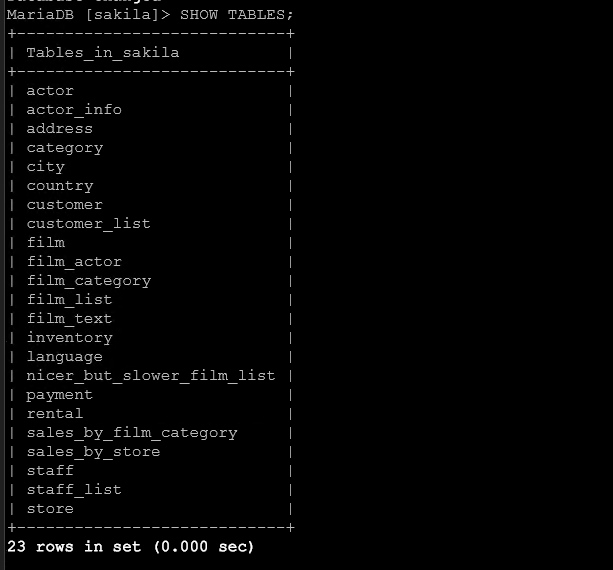
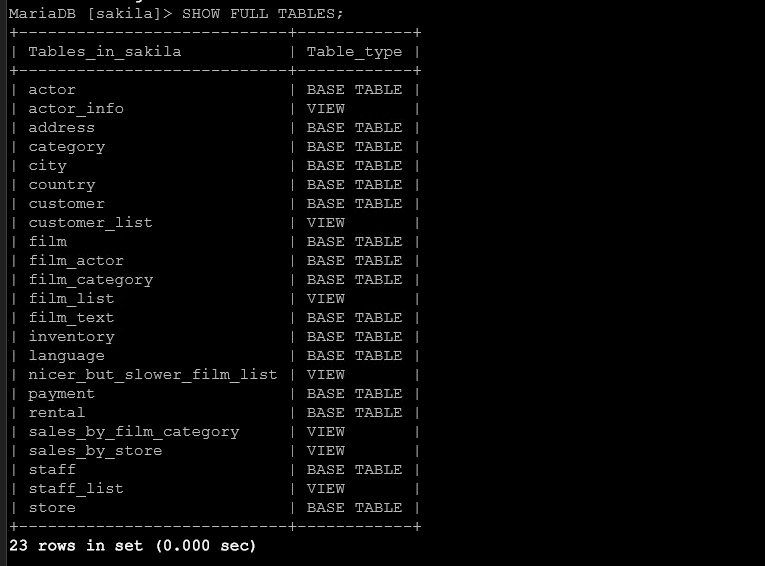
2 task ready

Changed region(s): [[0.0, 0.0, 0.5269, 1.0], [0.3409, 0.1201, 0.4029, 0.1502]]

diff --git a/README.md b/README.md
@@ -54,20 +54,39 @@ mysql -u sys_temp -ppassword < ~/sqlbeg/sakila-db/sakila-data.sql
 
 mysql -u sys_temp -ppassword
 USE sakila;
-SHOW TABLES;
+SHOW FULL TABLES; # full - чтобы понять, где таблици, а где view
 ```
 
 ---
 
 ### Задание 2
 
-
+Составьте таблицу, используя любой текстовый редактор или Excel, в которой должно быть два столбца: в первом должны быть названия таблиц восстановленной базы, во втором названия первичных ключей этих таблиц.
 
 ### Решение
 
-
-
-![Screen Script](./img)
-
-Скрипт:
-[Скрипт](./files/backup-home.sh)
+```
+| actor                      | BASE TABLE | actor_id
+| actor_info                 | VIEW       |
+| address                    | BASE TABLE | address_id
+| category                   | BASE TABLE | category_id
+| city                       | BASE TABLE | city_id
+| country                    | BASE TABLE | country_id
+| customer                   | BASE TABLE | customer_id
+| customer_list              | VIEW       |
+| film                       | BASE TABLE | film_id
+| film_actor                 | BASE TABLE | `actor_id`,`film_id`
+| film_category              | BASE TABLE | `film_id`,`category_id`
+| film_list                  | VIEW       |
+| film_text                  | BASE TABLE | film_id
+| inventory                  | BASE TABLE | inventory_id
+| language                   | BASE TABLE | language_id
+| nicer_but_slower_film_list | VIEW       |
+| payment                    | BASE TABLE | payment_id
+| rental                     | BASE TABLE | rental_id
+| sales_by_film_category     | VIEW       |
+| sales_by_store             | VIEW       |
+| staff                      | BASE TABLE | staff_id
+| staff_list                 | VIEW       |
+| store                      | BASE TABLE | store_id
+```
